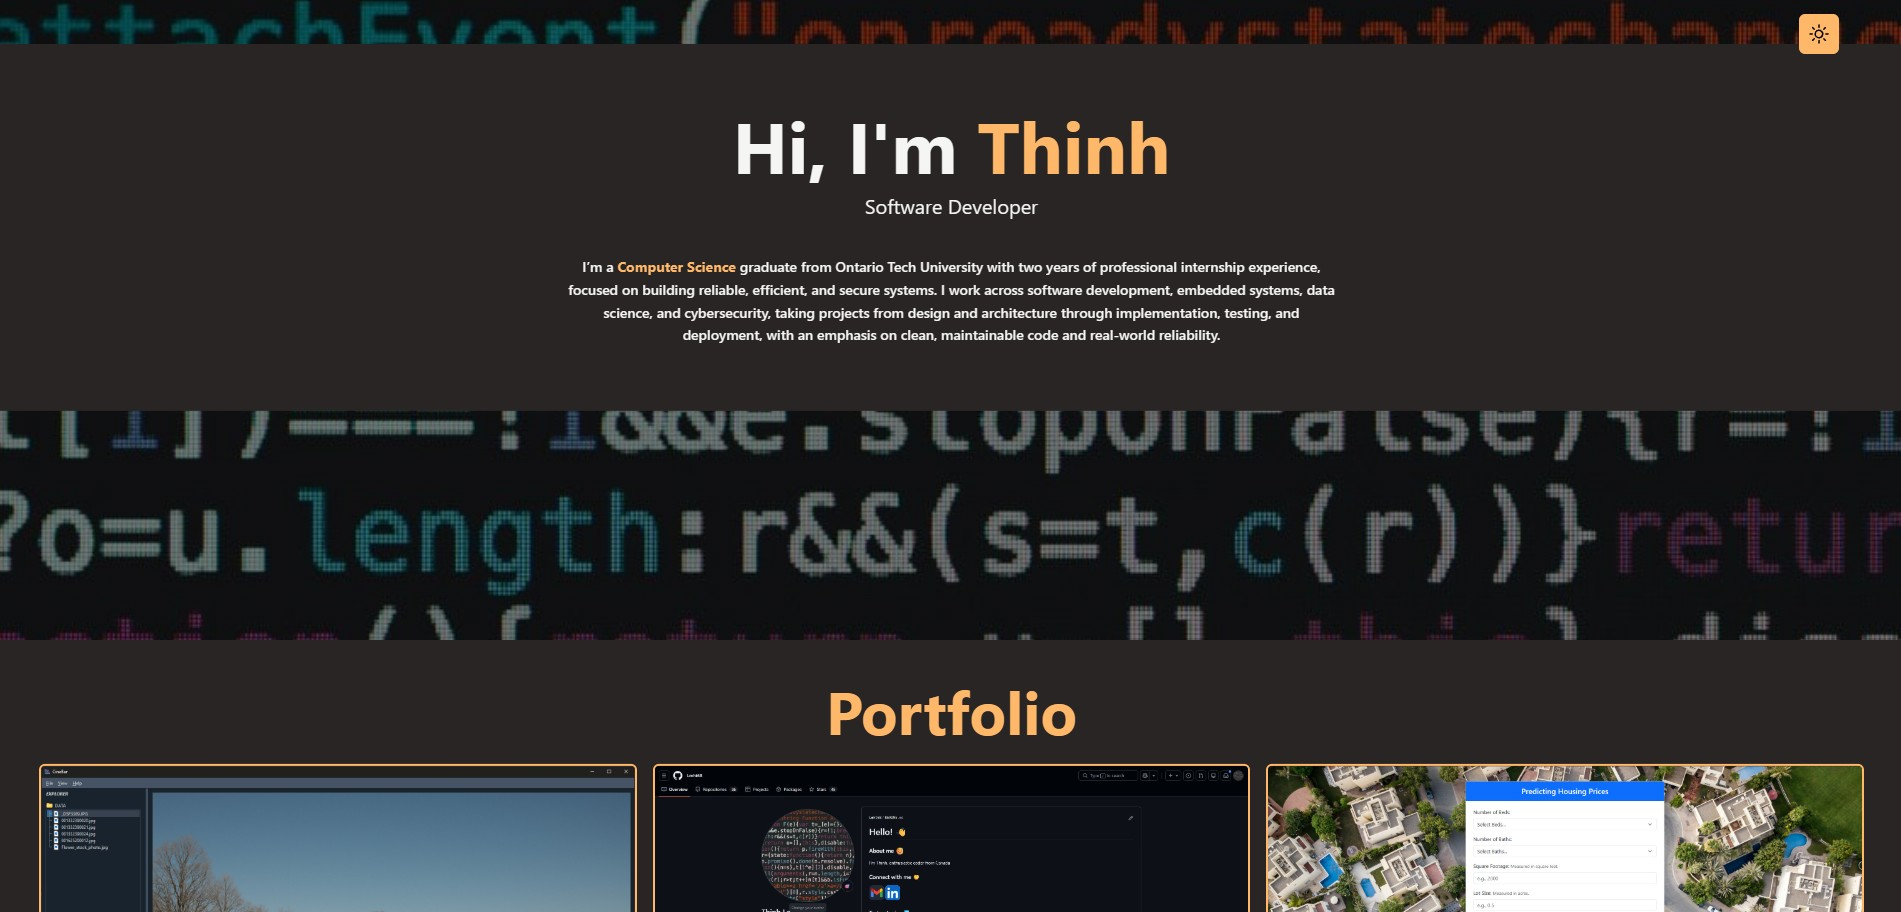
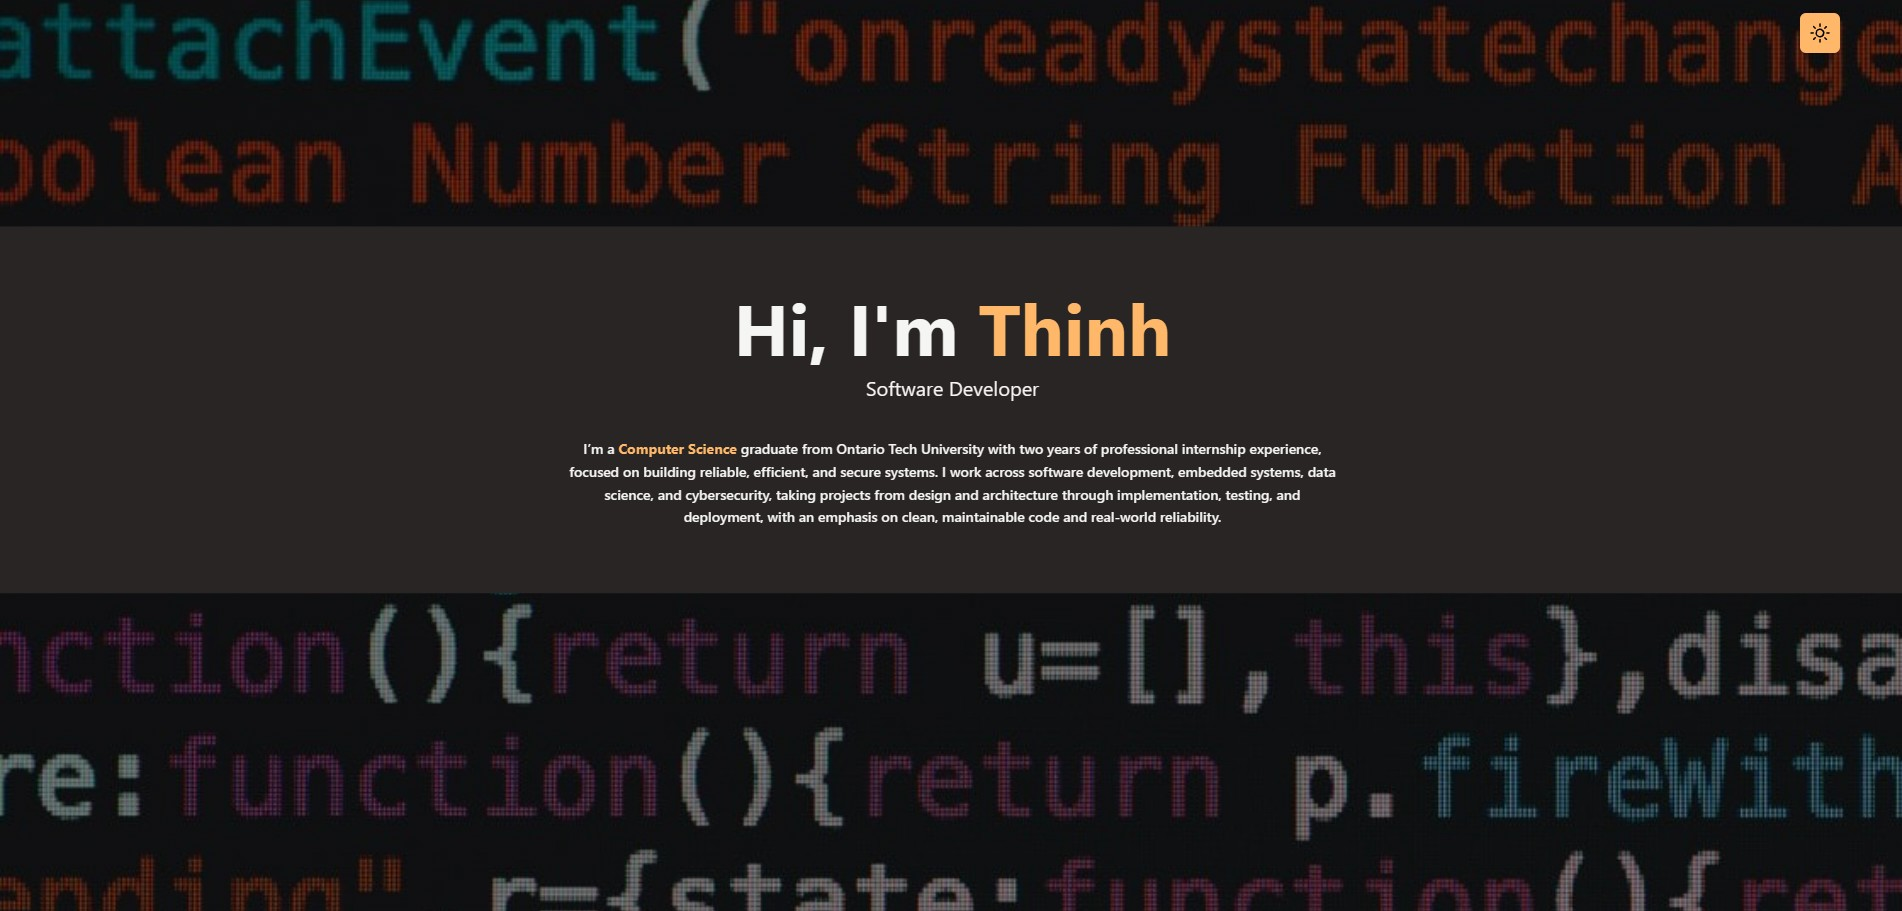
refactor: Change content image and adjust offset for parallax

diff --git a/src/App.jsx b/src/App.jsx
@@ -77,14 +77,14 @@ function App() {
         />
 
         <ParallaxLayer
-          offset={0.05}
+          offset={0.25}
           speed={0.05}
         >
           <Intro />
         </ParallaxLayer>
 
         <ParallaxLayer
-          offset={0.70}
+          offset={1.10}
           speed={0.05}
         >
           <Portfolio />
